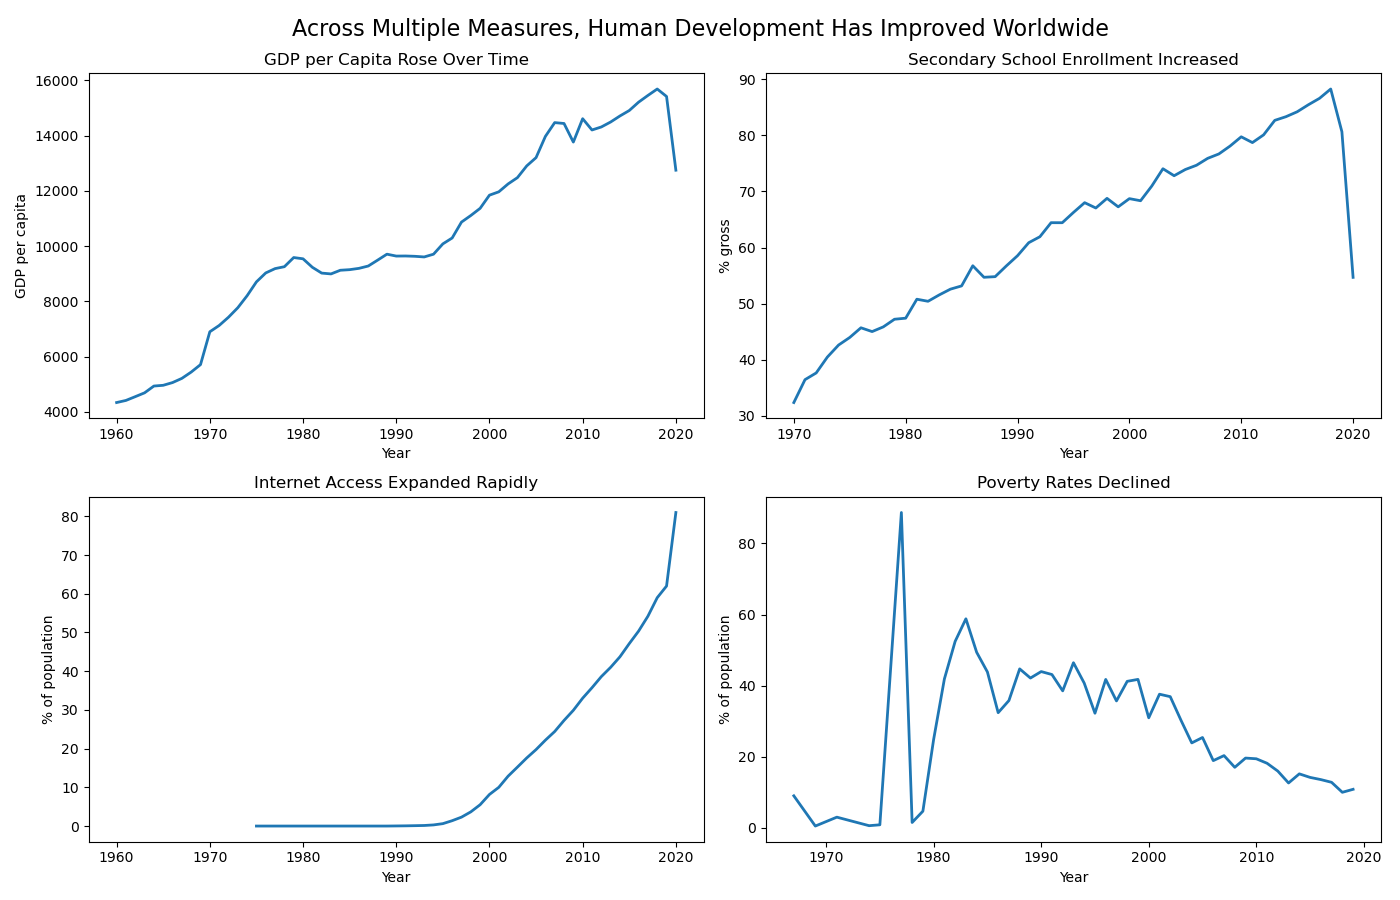
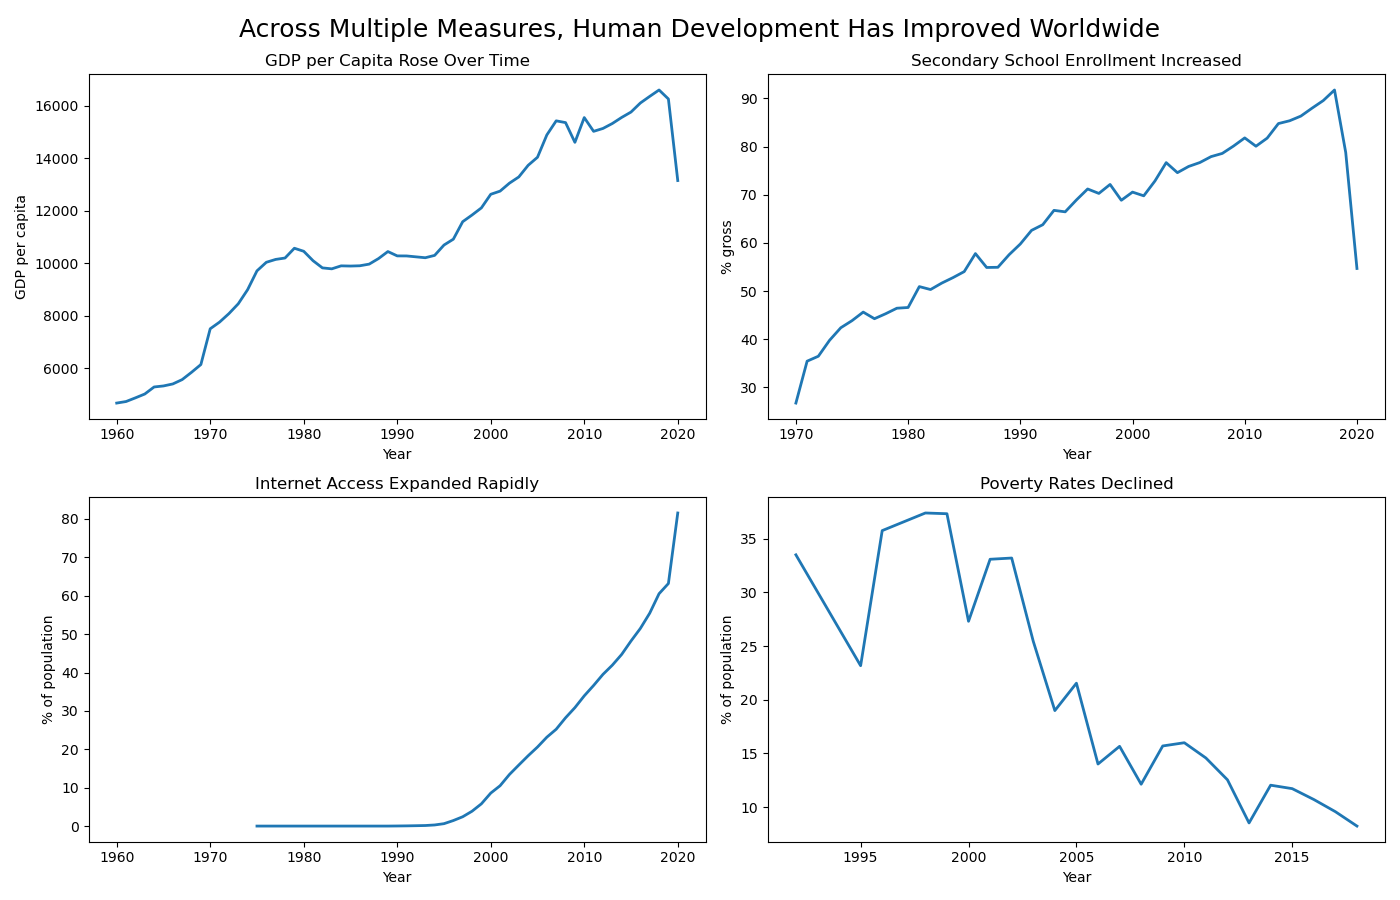
update python and png

diff --git a/Project 2.py b/Project 2.py
@@ -11,39 +11,73 @@ infra = pd.read_csv("data/infrastructure.csv")
 poverty = pd.read_csv("data/poverty.csv")
 
 # =========================
-# 2. SELECT COLUMNS
+# 2. KEEP COUNTRIES ONLY
+# =========================
+def keep_countries_only(df):
+    bad_keywords = [
+        "income", "IDA", "IBRD", "total", "World", "OECD", "Euro area",
+        "Europe & Central Asia", "East Asia & Pacific", "Latin America",
+        "Middle East", "North America", "South Asia", "Sub-Saharan Africa",
+        "Low & middle income", "Middle income", "High income",
+        "Arab World", "European Union", "Early-demographic dividend",
+        "Late-demographic dividend", "Post-demographic dividend",
+        "Pre-demographic dividend", "Small states", "Fragile and conflict affected"
+    ]
+    pattern = "|".join(bad_keywords)
+    mask = ~df["Country Name"].str.contains(pattern, case=False, na=False)
+    return df[mask].copy()
+
+econ = keep_countries_only(econ)
+edu = keep_countries_only(edu)
+infra = keep_countries_only(infra)
+poverty = keep_countries_only(poverty)
+
+# =========================
+# 3. SELECT COLUMNS
 # =========================
 gdp_col = "average_value_GDP per capita (constant 2010 US$)"
 school_col = "average_value_School enrollment, secondary (% gross)"
 internet_col = "average_value_Individuals using the Internet (% of population)"
 poverty_col = "average_value_Poverty headcount ratio at $3.20 a day (2011 PPP) (% of population)"
 
-# Keep only needed columns
 econ = econ[["Country Name", "Country Code", "Year", gdp_col]].copy()
 edu = edu[["Country Name", "Country Code", "Year", school_col]].copy()
 infra = infra[["Country Name", "Country Code", "Year", internet_col]].copy()
 poverty = poverty[["Country Name", "Country Code", "Year", poverty_col]].copy()
 
-# Clean year
+# =========================
+# 4. CLEAN YEAR
+# =========================
 for df in [econ, edu, infra, poverty]:
     df["Year"] = pd.to_numeric(df["Year"], errors="coerce")
     df.dropna(subset=["Year"], inplace=True)
     df["Year"] = df["Year"].astype(int)
 
 # =========================
-# 3. GLOBAL AVERAGE TRENDS
+# 5. GLOBAL TRENDS
 # =========================
 gdp_global = econ.groupby("Year")[gdp_col].mean().reset_index()
 school_global = edu.groupby("Year")[school_col].mean().reset_index()
 internet_global = infra.groupby("Year")[internet_col].mean().reset_index()
-poverty_global = poverty.groupby("Year")[poverty_col].mean().reset_index()
+
+# poverty: keep only years with enough countries
+poverty_valid = poverty.dropna(subset=[poverty_col]).copy()
+poverty_counts = poverty_valid.groupby("Year")[poverty_col].count().reset_index(name="n")
+good_poverty_years = poverty_counts[poverty_counts["n"] >= 30]["Year"]
+
+poverty_global = (
+    poverty_valid[poverty_valid["Year"].isin(good_poverty_years)]
+    .groupby("Year")[poverty_col]
+    .mean()
+    .reset_index()
+)
 
 # =========================
-# 4. VIZ 1: SUPPORTING SIDE
-#    Global long-run trends
+# 6. FIGURE 1
+#    PRO SIDE: GLOBAL TRENDS
 # =========================
 fig, axes = plt.subplots(2, 2, figsize=(14, 9))
-fig.suptitle("Across Multiple Measures, Human Development Has Improved Worldwide", fontsize=16)
+fig.suptitle("Across Multiple Measures, Human Development Has Improved Worldwide", fontsize=18)
 
 axes[0, 0].plot(gdp_global["Year"], gdp_global[gdp_col], linewidth=2)
 axes[0, 0].set_title("GDP per Capita Rose Over Time")
@@ -69,45 +103,47 @@ plt.tight_layout()
 plt.show()
 
 # =========================
-# 5. REGIONS FOR VIZ 2
+# 7. REGION MAP FOR FIGURE 2
 # =========================
 region_map = {
-    # North America
     "USA": "North America", "CAN": "North America", "MEX": "North America",
-    # Europe
     "GBR": "Europe", "FRA": "Europe", "DEU": "Europe", "ITA": "Europe", "ESP": "Europe",
-    # East Asia & Pacific
     "CHN": "East Asia & Pacific", "JPN": "East Asia & Pacific", "KOR": "East Asia & Pacific",
     "IDN": "East Asia & Pacific", "THA": "East Asia & Pacific",
-    # South Asia
     "IND": "South Asia", "PAK": "South Asia", "BGD": "South Asia", "LKA": "South Asia",
-    # Sub-Saharan Africa
     "NGA": "Sub-Saharan Africa", "KEN": "Sub-Saharan Africa", "ETH": "Sub-Saharan Africa",
     "GHA": "Sub-Saharan Africa", "ZAF": "Sub-Saharan Africa",
-    # Latin America
     "BRA": "Latin America", "ARG": "Latin America", "CHL": "Latin America",
     "COL": "Latin America", "PER": "Latin America",
-    # Middle East & North Africa
     "EGY": "Middle East & North Africa", "MAR": "Middle East & North Africa",
     "SAU": "Middle East & North Africa", "IRN": "Middle East & North Africa"
 }
 
 econ["Region"] = econ["Country Code"].map(region_map)
-edu["Region"] = edu["Country Code"].map(region_map)
 infra["Region"] = infra["Country Code"].map(region_map)
-poverty["Region"] = poverty["Country Code"].map(region_map)
 
-econ_reg = econ.dropna(subset=["Region"]).groupby(["Year", "Region"])[gdp_col].mean().reset_index()
-infra_reg = infra.dropna(subset=["Region"]).groupby(["Year", "Region"])[internet_col].mean().reset_index()
+econ_reg = (
+    econ.dropna(subset=["Region"])
+    .groupby(["Year", "Region"])[gdp_col]
+    .mean()
+    .reset_index()
+)
+
+infra_reg = (
+    infra.dropna(subset=["Region"])
+    .groupby(["Year", "Region"])[internet_col]
+    .mean()
+    .reset_index()
+)
 
 # =========================
-# 6. VIZ 2: SUPPORTING SIDE
-#    Regional trends
+# 8. FIGURE 2
+#    PRO SIDE: REGIONAL TRENDS
 # =========================
 fig, axes = plt.subplots(1, 2, figsize=(14, 5))
-fig.suptitle("Improvement Has Been Widespread Across Multiple Regions", fontsize=16)
+fig.suptitle("Improvement Has Been Widespread Across Multiple Regions", fontsize=18)
 
-for region in econ_reg["Region"].dropna().unique():
+for region in sorted(econ_reg["Region"].dropna().unique()):
     temp = econ_reg[econ_reg["Region"] == region]
     axes[0].plot(temp["Year"], temp[gdp_col], label=region, linewidth=2)
 
@@ -116,7 +152,7 @@ axes[0].set_xlabel("Year")
 axes[0].set_ylabel("GDP per capita")
 axes[0].legend(fontsize=8)
 
-for region in infra_reg["Region"].dropna().unique():
+for region in sorted(infra_reg["Region"].dropna().unique()):
     temp = infra_reg[infra_reg["Region"] == region]
     axes[1].plot(temp["Year"], temp[internet_col], label=region, linewidth=2)
 
@@ -129,55 +165,62 @@ plt.tight_layout()
 plt.show()
 
 # =========================
-# VIZ 3: OPPOSING SIDE
-# Latest year with actual poverty data
+# 9. FIGURE 3
+#    CON SIDE: POVERTY RANKING
 # =========================
+poverty_nonmissing = poverty.dropna(subset=[poverty_col]).copy()
 
-year_counts = poverty.groupby("Year")[poverty_col].count().reset_index(name="count")
-best_poverty_year = year_counts.sort_values(["count", "Year"], ascending=[False, False]).iloc[0]["Year"]
+year_counts = poverty_nonmissing.groupby("Year")[poverty_col].count().reset_index(name="count")
+best_poverty_year = int(
+    year_counts.sort_values(["count", "Year"], ascending=[False, False]).iloc[0]["Year"]
+)
 
-poverty_latest = poverty[poverty["Year"] == best_poverty_year].dropna(subset=[poverty_col]).copy()
+poverty_latest = poverty_nonmissing[poverty_nonmissing["Year"] == best_poverty_year].copy()
 poverty_latest = poverty_latest.sort_values(by=poverty_col, ascending=False).head(20)
 
 plt.figure(figsize=(10, 8))
 plt.barh(poverty_latest["Country Name"], poverty_latest[poverty_col])
 plt.gca().invert_yaxis()
-plt.title(f"Global Progress Has Left Many Countries Behind ({int(best_poverty_year)})")
+plt.title(f"Global Progress Has Left Many Countries Behind ({best_poverty_year})")
 plt.xlabel("Poverty headcount ratio at $3.20/day (% of population)")
 plt.ylabel("Country")
 plt.tight_layout()
 plt.show()
 
 # =========================
-# 8. VIZ 4: OPPOSING SIDE
-#    Top vs bottom inequality gaps
+# 10. FIGURE 4
+#     CON SIDE: GDP + INTERNET EXTREMES
 # =========================
-latest_gdp_year = econ["Year"].max()
-latest_internet_year = infra["Year"].max()
+latest_gdp_year = int(econ.dropna(subset=[gdp_col])["Year"].max())
+latest_internet_year = int(infra.dropna(subset=[internet_col])["Year"].max())
 
 gdp_latest = econ[econ["Year"] == latest_gdp_year].dropna(subset=[gdp_col]).copy()
 internet_latest = infra[infra["Year"] == latest_internet_year].dropna(subset=[internet_col]).copy()
 
-gdp_top10 = gdp_latest.nlargest(10, gdp_col)
-gdp_bottom10 = gdp_latest.nsmallest(10, gdp_col)
+gdp_top10 = gdp_latest.nlargest(10, gdp_col).sort_values(gdp_col)
+gdp_bottom10 = gdp_latest.nsmallest(10, gdp_col).sort_values(gdp_col)
 
-internet_top10 = internet_latest.nlargest(10, internet_col)
-internet_bottom10 = internet_latest.nsmallest(10, internet_col)
+internet_top10 = internet_latest.nlargest(10, internet_col).sort_values(internet_col)
+internet_bottom10 = internet_latest.nsmallest(10, internet_col).sort_values(internet_col)
 
-fig, axes = plt.subplots(1, 2, figsize=(15, 7))
-fig.suptitle("Averages Hide Deep and Persistent Inequality", fontsize=16)
+fig, axes = plt.subplots(2, 2, figsize=(14, 10))
+fig.suptitle("Average Gains Conceal Enormous Gaps Between Countries", fontsize=18)
 
-axes[0].barh(gdp_top10["Country Name"], gdp_top10[gdp_col], label="Top 10")
-axes[0].barh(gdp_bottom10["Country Name"], gdp_bottom10[gdp_col], label="Bottom 10")
-axes[0].set_title(f"GDP per Capita Extremes ({latest_gdp_year})")
-axes[0].set_xlabel("GDP per capita")
-axes[0].legend()
+axes[0, 0].barh(gdp_bottom10["Country Name"], gdp_bottom10[gdp_col])
+axes[0, 0].set_title(f"Lowest GDP per Capita ({latest_gdp_year})")
+axes[0, 0].set_xlabel("GDP per capita")
 
-axes[1].barh(internet_top10["Country Name"], internet_top10[internet_col], label="Top 10")
-axes[1].barh(internet_bottom10["Country Name"], internet_bottom10[internet_col], label="Bottom 10")
-axes[1].set_title(f"Internet Access Extremes ({latest_internet_year})")
-axes[1].set_xlabel("% using the Internet")
-axes[1].legend()
+axes[0, 1].barh(gdp_top10["Country Name"], gdp_top10[gdp_col])
+axes[0, 1].set_title(f"Highest GDP per Capita ({latest_gdp_year})")
+axes[0, 1].set_xlabel("GDP per capita")
+
+axes[1, 0].barh(internet_bottom10["Country Name"], internet_bottom10[internet_col])
+axes[1, 0].set_title(f"Lowest Internet Access ({latest_internet_year})")
+axes[1, 0].set_xlabel("% using the Internet")
+
+axes[1, 1].barh(internet_top10["Country Name"], internet_top10[internet_col])
+axes[1, 1].set_title(f"Highest Internet Access ({latest_internet_year})")
+axes[1, 1].set_xlabel("% using the Internet")
 
 plt.tight_layout()
 plt.show()
